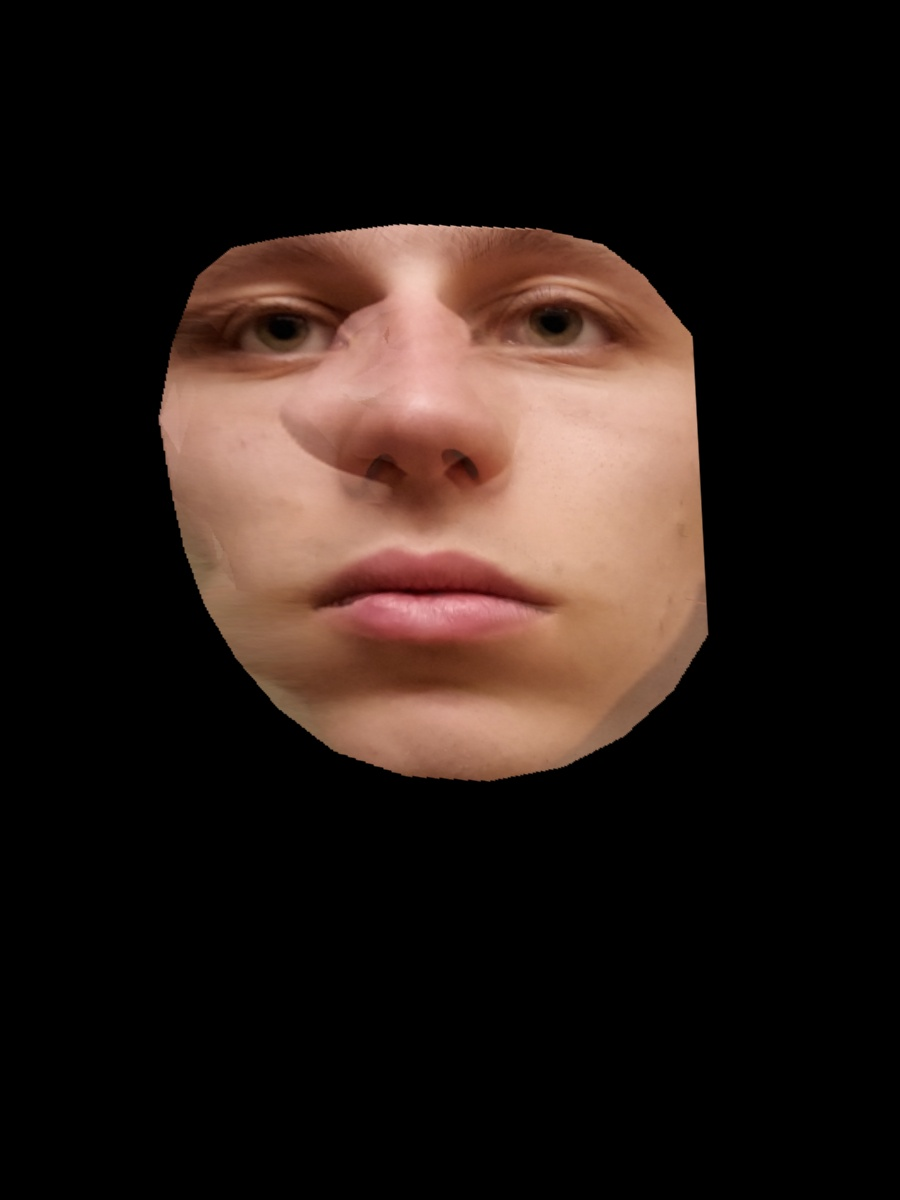
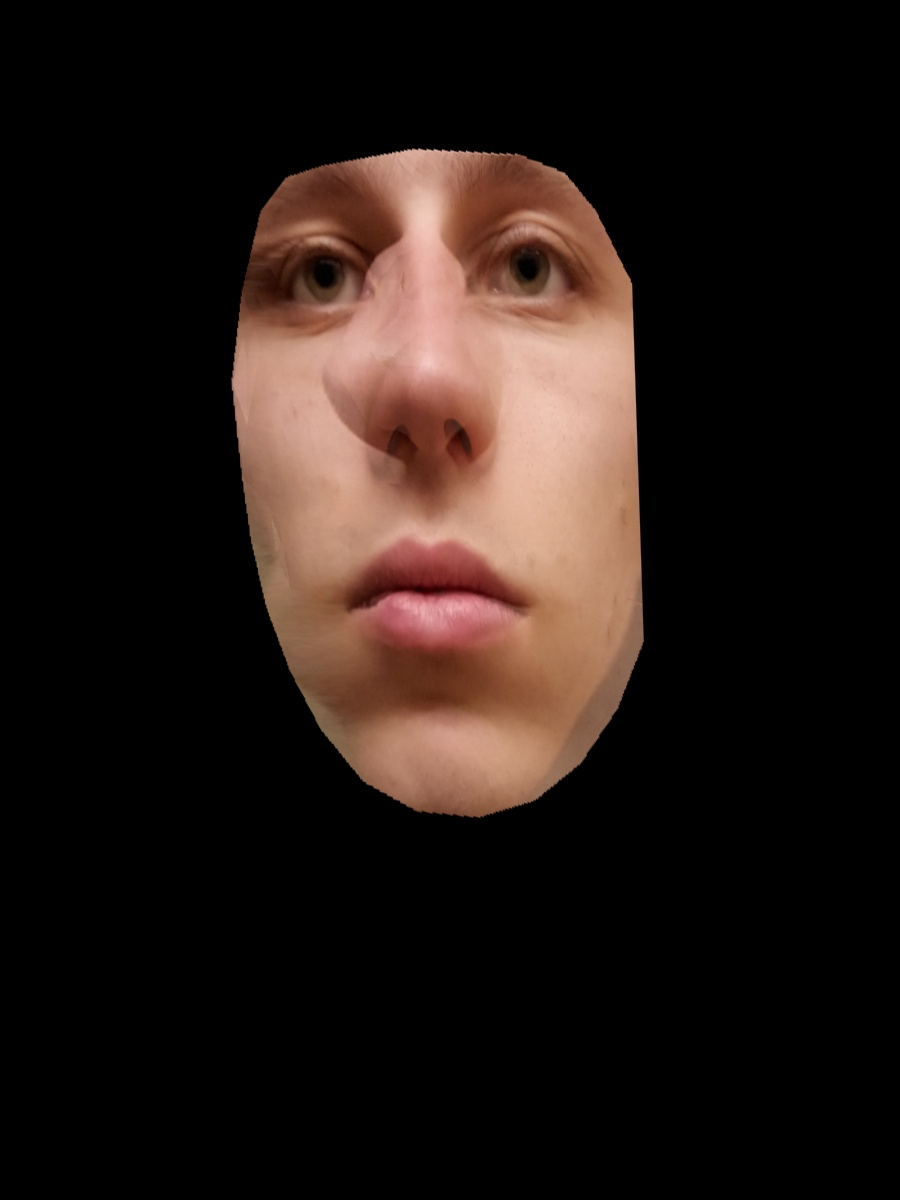
add option for manual/auto

Changed region(s): [[0.1556, 0.1233, 0.8089, 0.6783]]

diff --git a/src/3d_rec.py b/src/3d_rec.py
@@ -65,18 +65,22 @@ def get_normal_map_from_tris(P, tris, ref):
 def create_RT(phi, theta, z):
     pass
 
-def generate_manual(s = 0.5, scale = 1, save = True, subdivide = True):
+def generate(s = 0.5, scale = 1, save = True, subdivide = True, auto=True):
     # load images
     I_1, f_1, n_1, I_2, f_2, n_2, dim = load_manual(scale)
     
     
     W, H = dim
     print(W, H)
-    # f_1 = homogenize_array(f_1)
-    # f_2 = homogenize_array(f_2)
 
-    f_1 = find_face(I_1)
-    f_2 = find_face(I_2)
+    if auto:
+        f_1 = find_face(I_1)
+        f_2 = find_face(I_2)
+    else:
+        f_1 = homogenize_array(f_1)
+        f_2 = homogenize_array(f_2)
+
+    
     print(f_1[0], f_1[16], f_1[9])
     #plot_landmarks(I_1, f_1)
     f_count = len(f_1)
@@ -214,15 +218,14 @@ def generate_manual(s = 0.5, scale = 1, save = True, subdivide = True):
     
     min_x = tset_s[:, :, 0].min()
     min_y = tset_s[:, :, 1].min()
+    if not auto:
+        tset_s[:, :, 0] -= min_x#-200
+        tset_s[:, :, 1] -= min_y#-200
 
-    # tset_s[:, :, 0] -= min_x#-200
-    # tset_s[:, :, 1] -= min_y#-200
-
-    
     f_0 = np.array([
-         [W//2-300, H//2-200],
-        [W//2+300, H//2-200],
-        [W//2, H//2+200 ]
+         [W//2-W//4, H//2-H//5],
+        [W//2+W//4, H//2-H//5],
+        [W//2, H//2+H//5 ]
     ]).astype(np.float32)
     pts = np.vstack([f_s_old[0, :2], f_s_old[16, :2], f_s_old[8, :2]]).astype(np.float32)
     
@@ -264,8 +267,8 @@ def generate_manual(s = 0.5, scale = 1, save = True, subdivide = True):
     # for i, pt in enumerate(pts):
     #     I_s = cv.putText(I_s, str(i), pt.astype(int), 
     #                          fontFace = cv.FONT_HERSHEY_SIMPLEX, color=color, thickness=thickness, fontScale=2)
-    
-    I_s = cv.warpAffine(I_s, H_s, dim)
+    if auto: 
+        I_s = cv.warpAffine(I_s, H_s, dim)
     #cv.imshow("img", I_s)
     #cv.waitKey(0)
     
@@ -283,7 +286,7 @@ if __name__ == "__main__":
     # plt.show()
     frames = []
     for s in tqdm(np.linspace(0, 1, 10)):
-        frames += [ generate_manual(s, scale=0.3, save=True) ]
+        frames += [ generate(s, scale=0.3, save=True) ]
     frames += frames[::-1]
     
     utils.create_gif('output/manual.gif', frames)
